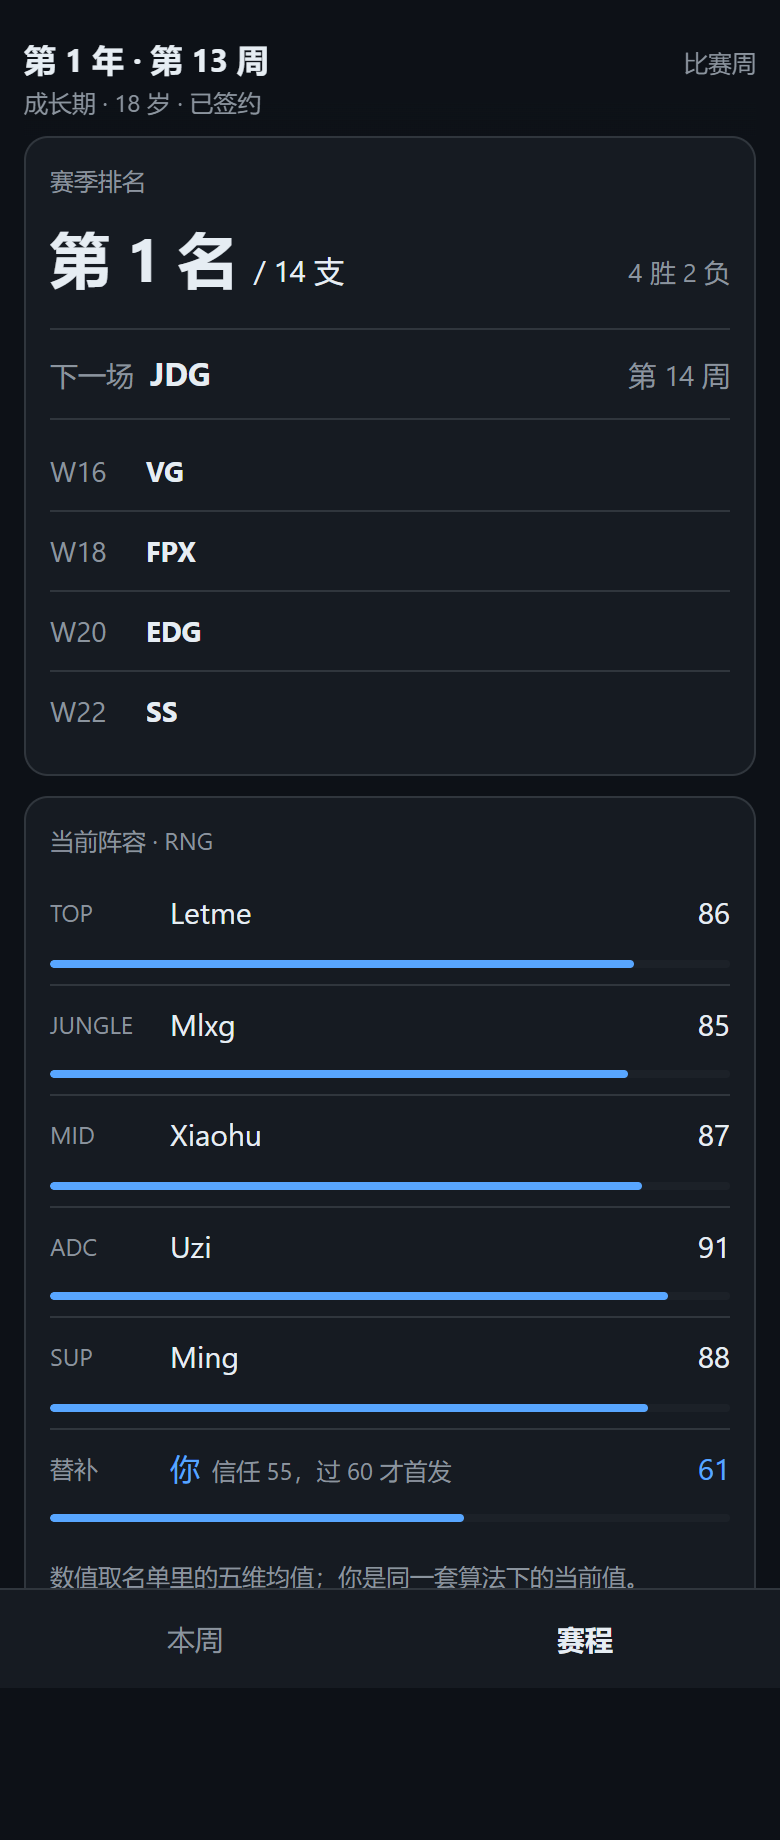
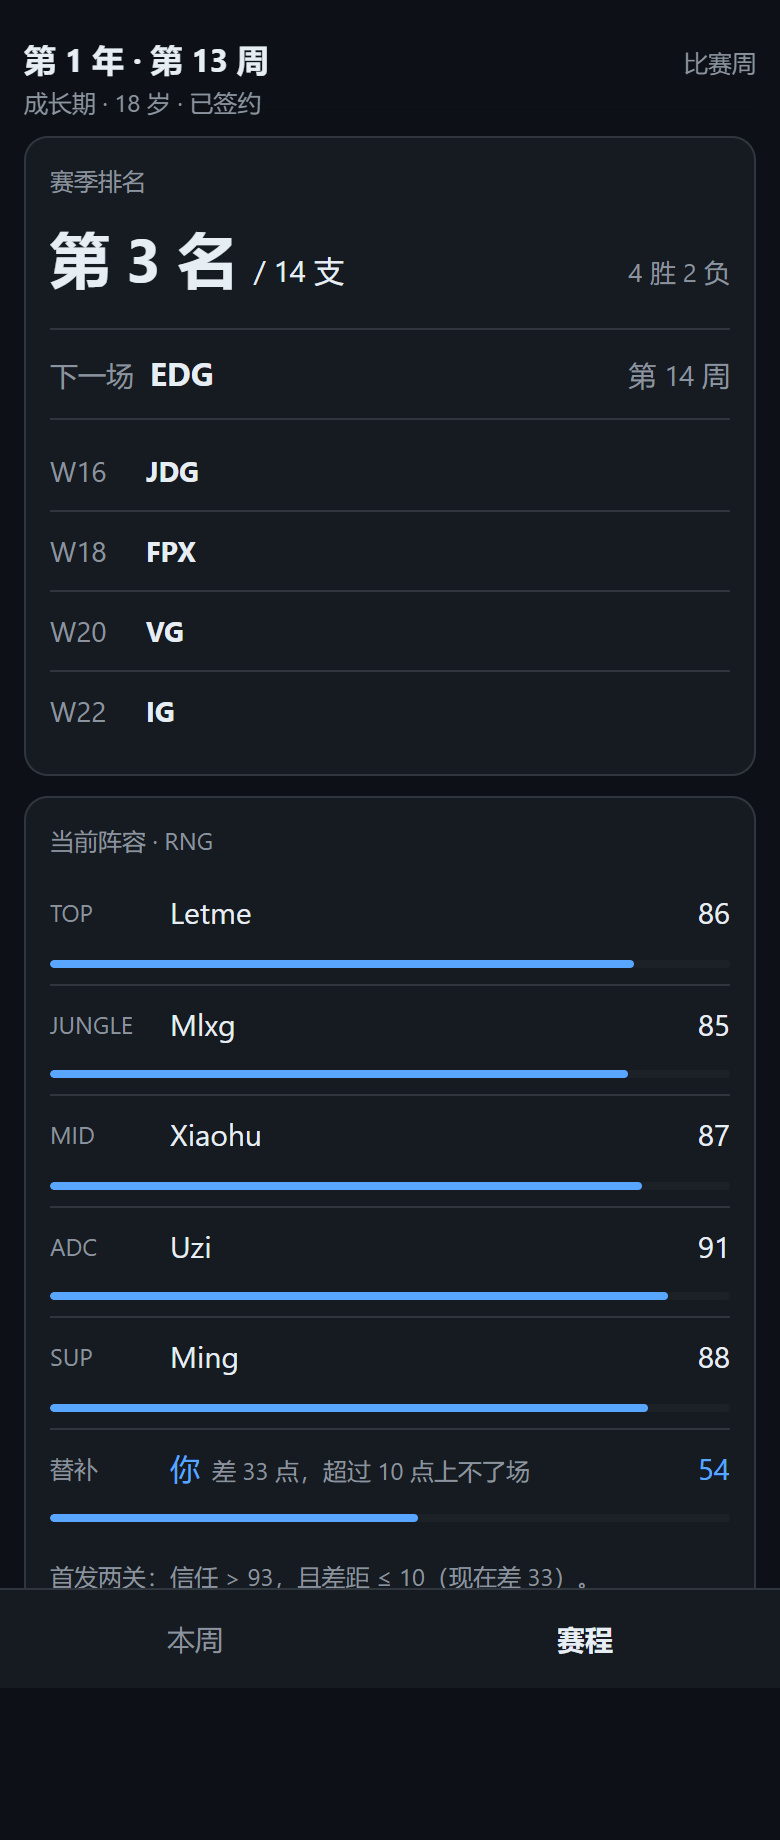
feat: 首发改由信任与对位差距共同决定（两条底线）

diff --git a/tests/core.test.ts b/tests/core.test.ts
@@ -1,5 +1,6 @@
 import { describe, expect, it } from 'vitest';
 import { CONFIG } from '../src/config';
+import { isStarting, startRequirement } from '../src/core/league';
 import { reduce } from '../src/core/reduce';
 import { applyAction, canAfford } from '../src/core/actions';
 import { advanceYear, gainExp } from '../src/core/growth';
@@ -521,30 +522,30 @@ describe('统一胜负公式', () => {
 describe('春决 / 夏决', () => {
   it('只有签约之后才会在决赛周出现', () => {
     const unsigned = newGame(31);
-    unsigned.week = 8;
+    unsigned.week = CONFIG.league.springFinalWeek;
     expect(drawEvent(unsigned).event?.id).not.toBe('SPR-1');
 
     const signed = newGame(31);
     signed.signed = true;
-    signed.week = 8;
+    signed.week = CONFIG.league.springFinalWeek;
     expect(drawEvent(signed).event?.id).toBe('SPR-1');
   });
 
-  it('夏决在第 20 周，且按年编号不重复', () => {
+  it('夏决在第 30 周，且按年编号不重复', () => {
     const s = newGame(32);
     s.signed = true;
-    s.week = 20;
+    s.week = CONFIG.league.summerFinalWeek;
     expect(drawEvent(s).event?.id).toBe('SUM-1');
 
     s.year = 3;
-    s.week = 20;
+    s.week = CONFIG.league.summerFinalWeek;
     expect(drawEvent(s).event?.id).toBe('SUM-3');
   });
 
   it('赢了给联赛冠军', () => {
     const s = newGame(33);
     s.signed = true;
-    s.week = 8;
+    s.week = CONFIG.league.springFinalWeek;
     for (const key of MATCH_ATTRS) s.attrs[key] = 100;
     const ev = drawEvent(s).event!;
     s.pendingEvent = { eventId: ev.id };
@@ -576,5 +577,38 @@ describe('邀请函', () => {
     s.year = 1;
     s.week = 5;
     expect(drawEvent(s).event?.id).not.toBe('INV-1');
+  });
+});
+
+describe('首发：信任 × 对位差距', () => {
+  it('信任刚过 60 且你不弱于同位置，能首发', () => {
+    const s = newGame(41);
+    s.signed = true;
+    s.teamId = 'RNG';
+    s.coachTrust = 61;
+    for (const key of MATCH_ATTRS) s.attrs[key] = 95; // 均值 95，远强于 Xiaohu 87
+    expect(startRequirement(s).ok).toBe(true);
+  });
+
+  it('弱 3 点就要 63 点信任：61 不够，64 可以', () => {
+    const s = newGame(42);
+    s.signed = true;
+    s.teamId = 'RNG';
+    for (const key of MATCH_ATTRS) s.attrs[key] = 84; // 均值 84，Xiaohu 87 → 差 3
+    s.coachTrust = 61;
+    expect(startRequirement(s).needTrust).toBe(63);
+    expect(isStarting(s)).toBe(false);
+    s.coachTrust = 64;
+    expect(isStarting(s)).toBe(true);
+  });
+
+  it('弱超过 10 点，信任再高也上不了', () => {
+    const s = newGame(43);
+    s.signed = true;
+    s.teamId = 'RNG';
+    for (const key of MATCH_ATTRS) s.attrs[key] = 70; // 差 17
+    s.coachTrust = 100;
+    expect(startRequirement(s).gap).toBeGreaterThan(10);
+    expect(isStarting(s)).toBe(false);
   });
 });

diff --git a/src/ui/main.ts b/src/ui/main.ts
@@ -5,7 +5,7 @@ import { ACTION_INFO, canAfford, isActionUnlocked, staminaCost } from '../core/a
 import { loadSaved, persist } from '../core/save';
 import { ageOf, isMatchWeek, newGame, phaseOfYear } from '../core/state';
 import { rankOf } from '../core/ladder';
-import { myPlace, mySquad, nextFixture, upcomingFixtures, standings, isStarting } from '../core/league';
+import { myPlace, myOvr, mySquad, nextFixture, startRequirement, upcomingFixtures, standings, isStarting } from '../core/league';
 import { randomSeed } from '../rng';
 import {
   ACTION_IDS,
@@ -356,12 +356,19 @@ function renderSchedule(): string {
     })
     .join('');
 
+  const req = startRequirement(state);
+  const mine = myOvr(state);
+  const why = (() => {
+    if (req.gap > 10) return `差 ${req.gap} 点，超过 10 点上不了场`;
+    if (state.coachTrust <= req.needTrust) return `信任 ${state.coachTrust}/${req.needTrust}，还差 ${req.needTrust - state.coachTrust + 1}`;
+    return '可以首发';
+  })();
   const meRow = benched
     ? `<li class="squad-row me sub-row">
         <span class="pos">替补</span>
-        <span class="nm">${esc(state.playerName)}<span class="mini">信任 ${state.coachTrust}，过 60 才首发</span></span>
-        <span class="ovr">${Math.round((state.attrs.operation + state.attrs.laning + state.attrs.teamfight + state.attrs.awareness + state.attrs.mentality) / 5)}</span>
-        <span class="bar"><i style="width:${Math.round((state.attrs.operation + state.attrs.laning + state.attrs.teamfight + state.attrs.awareness + state.attrs.mentality) / 5)}%"></i></span>
+        <span class="nm">${esc(state.playerName)}<span class="mini">${why}</span></span>
+        <span class="ovr">${mine}</span>
+        <span class="bar"><i style="width:${mine}%"></i></span>
       </li>`
     : '';
 
@@ -374,7 +381,7 @@ function renderSchedule(): string {
     <div class="panel">
       <div class="cap">当前阵容 · ${esc(state.teamId ?? '')}</div>
       <ul class="squad">${squad}${meRow}</ul>
-      <div class="cap" style=" margin-top:10px">数值取名单里的五维均值；你是同一套算法下的当前值。</div>
+      <div class="cap" style=" margin-top:10px">首发两关：信任 > ${req.needTrust}，且差距 ≤ 10（现在差 ${req.gap}）。</div>
     </div>`;
 }
 

diff --git a/src/core/league.ts b/src/core/league.ts
@@ -104,9 +104,38 @@ export function weeksUntil(state: GameState, week: number): number {
   return week - state.week;
 }
 
-/** 教练信任过了阈值才算首发。 */
+/** 我在场上的数值（六维均值）。 */
+export function myOvr(state: GameState): number {
+  const a = state.attrs;
+  return Math.round((a.operation + a.laning + a.teamfight + a.awareness + a.mentality) / 5);
+}
+
+/** 队里同位置的那个首发；没签约或名单里没人打这个位置就返回 null。 */
+export function rivalAtMySlot(state: GameState): { name: string; ovr: number } | null {
+  if (!state.teamId) return null;
+  const team = rosterOf(state.year).find((t) => t.id === state.teamId);
+  const p = team?.players.find((x) => x.pos === state.role);
+  return p ? { name: p.name, ovr: p.ovr } : null;
+}
+
+/**
+ * 首发条件：信任与对位差距互相拉扯，但有两条底线。
+ * - 底线一：教练信任必须 > 60。
+ * - 底线二：对位差距（首发 − 你）不得 > 10；弱超过 10 点，信任再高也上不了。
+ * - 互补：你比他弱几点，就要多几点信任（1 点差距 = 1 点信任）。
+ */
+export function startRequirement(state: GameState): { needTrust: number; gap: number; ok: boolean } {
+  const rival = rivalAtMySlot(state);
+  const mine = myOvr(state);
+  const gap = rival ? rival.ovr - mine : 0;
+  const needTrust = CONFIG.league.startThreshold + Math.max(0, gap);
+  const ok = state.coachTrust > needTrust && gap <= CONFIG.league.maxGap;
+  return { needTrust, gap, ok };
+}
+
+/** 教练信任与对位差距都过了才算首发。 */
 export function isStarting(state: GameState): boolean {
-  return state.coachTrust > CONFIG.league.startThreshold;
+  return startRequirement(state).ok;
 }
 
 /** 我这边的 5 个人：首发时是「名单 4 人 + 我」，替补时是名单原班。 */

diff --git a/src/config.ts b/src/config.ts
@@ -115,8 +115,10 @@ export const CONFIG = {
     summerFinalWeek: 30,
     /** 上王者后给几个邀请。 */
     invitations: 3,
-    /** 教练信任超过这个数才首发。 */
+    /** 教练信任超过这个数才首发（底线一）。 */
     startThreshold: 60,
+    /** 对位差距（同位置首发 − 你）超过这个数就上不了场，信任再高也不行（底线二）。 */
+    maxGap: 10,
   },
 
   /** 比赛结算。 */
